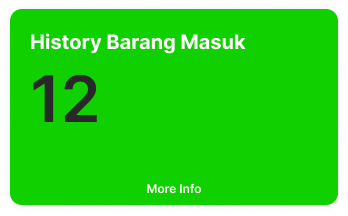
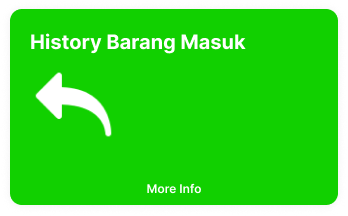
progres 11

Changed region(s): [[0.0862, 0.3333, 0.3448, 0.6389]]

diff --git a/resources/views/dashboard.blade.php b/resources/views/dashboard.blade.php
@@ -23,23 +23,12 @@
                     <img class="type-metric-style-style" src="img/Type=Metric. Style=Style 12.png"
                         alt="Type=Metric. Style=Style 12" />
                 </a>
+                <a href="/detailTransaksi">
+                    <img class="type-metric-style-style" src="img/Type=Metric. Style=Style 13.png"
+                        alt="Type=Metric. Style=Style 11" />
+                </a>
             </div>
         </div>
-        <div class="detail-login">
-            <div class="overlap-group">
-                <div class="detail-login-1">Detail Login</div>
-                <div class="flex-row">
-                    <p class="nama-username-level-hak-akses">
-                        Nama&nbsp;&nbsp;&nbsp;&nbsp;&nbsp;&nbsp;&nbsp;&nbsp;&nbsp;&nbsp;&nbsp;&nbsp;&nbsp;&nbsp;
-                        <br />Username<br />Level Hak Akses
-                    </p>
-                    <p class="rizqi-fauzan-adm">
-                        : Rizqi
-                        Fauzan&nbsp;&nbsp;&nbsp;&nbsp;&nbsp;&nbsp;&nbsp;&nbsp;&nbsp;&nbsp;&nbsp;&nbsp;&nbsp;&nbsp;
-                        <br />: admin<br />: administrator/owner
-                    </p>
-                </div>
-            </div>
-        </div>
+
 
 @endsection
